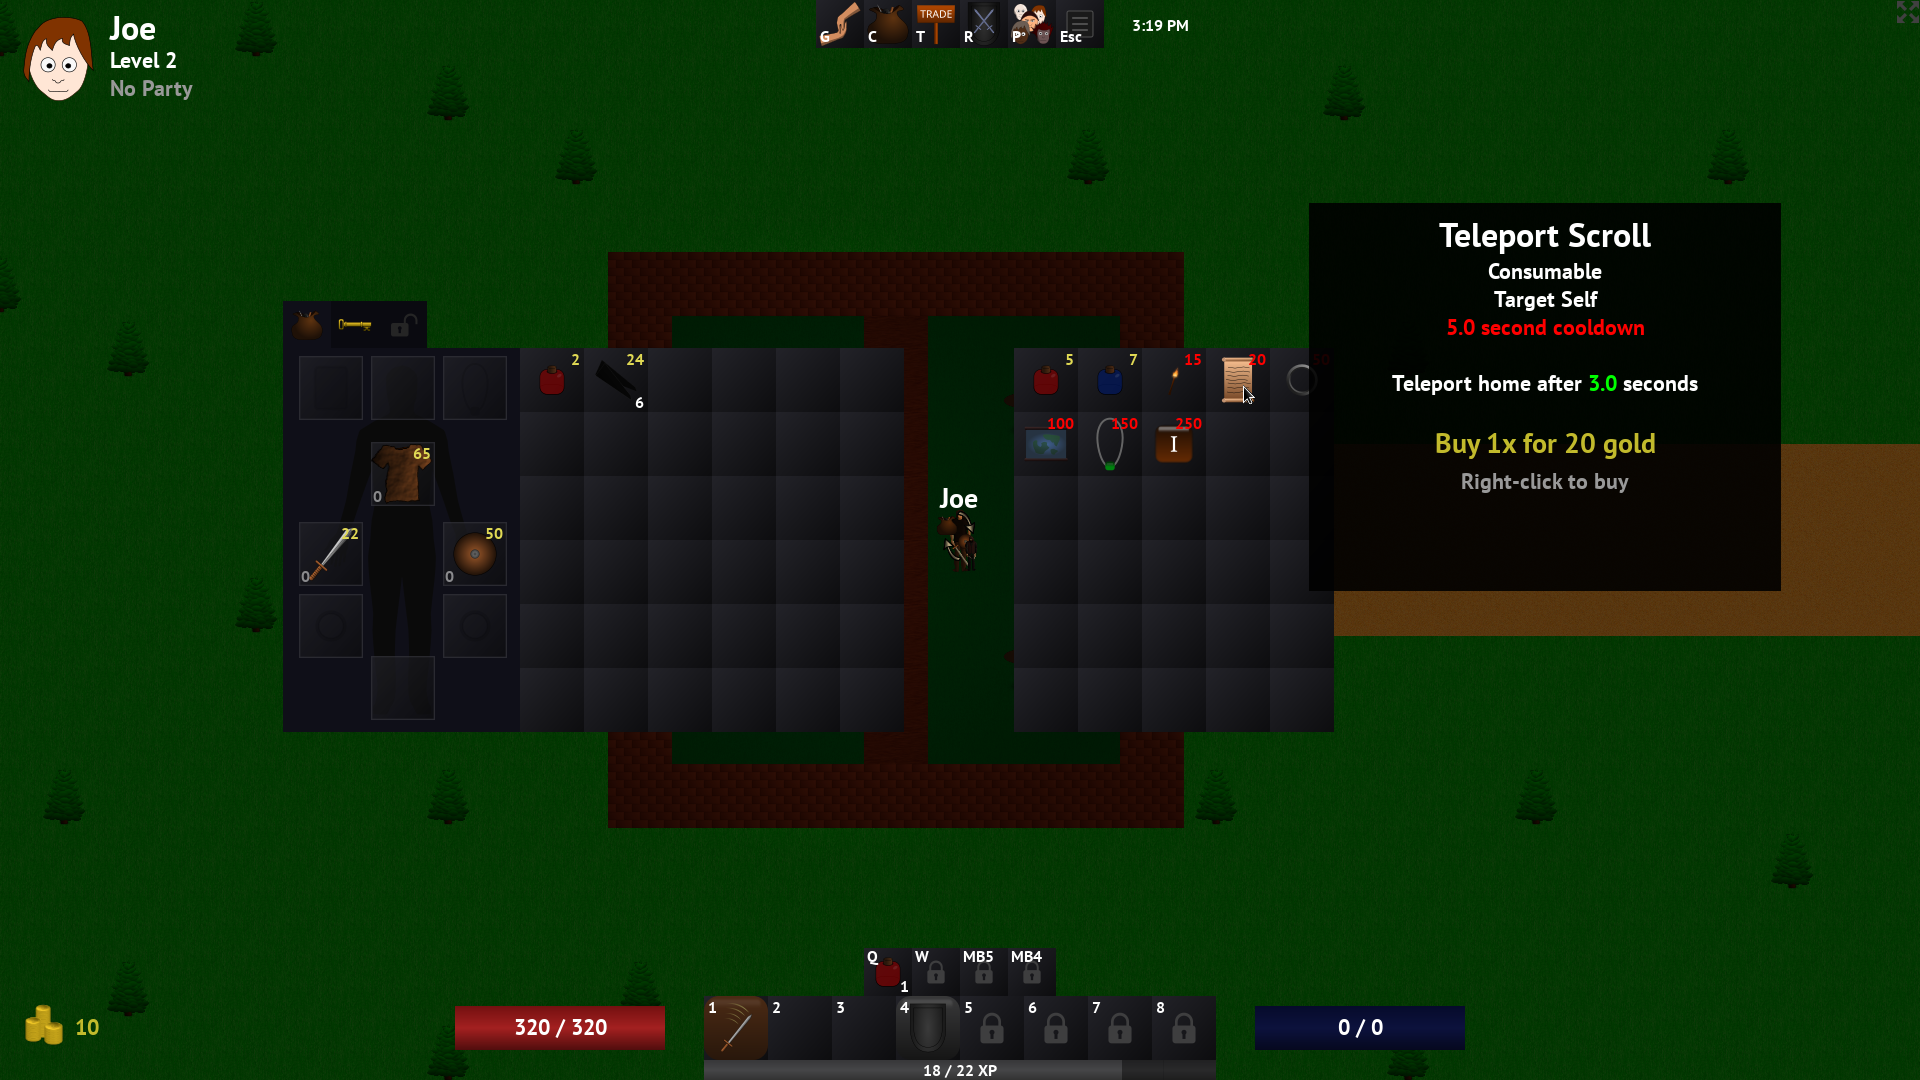
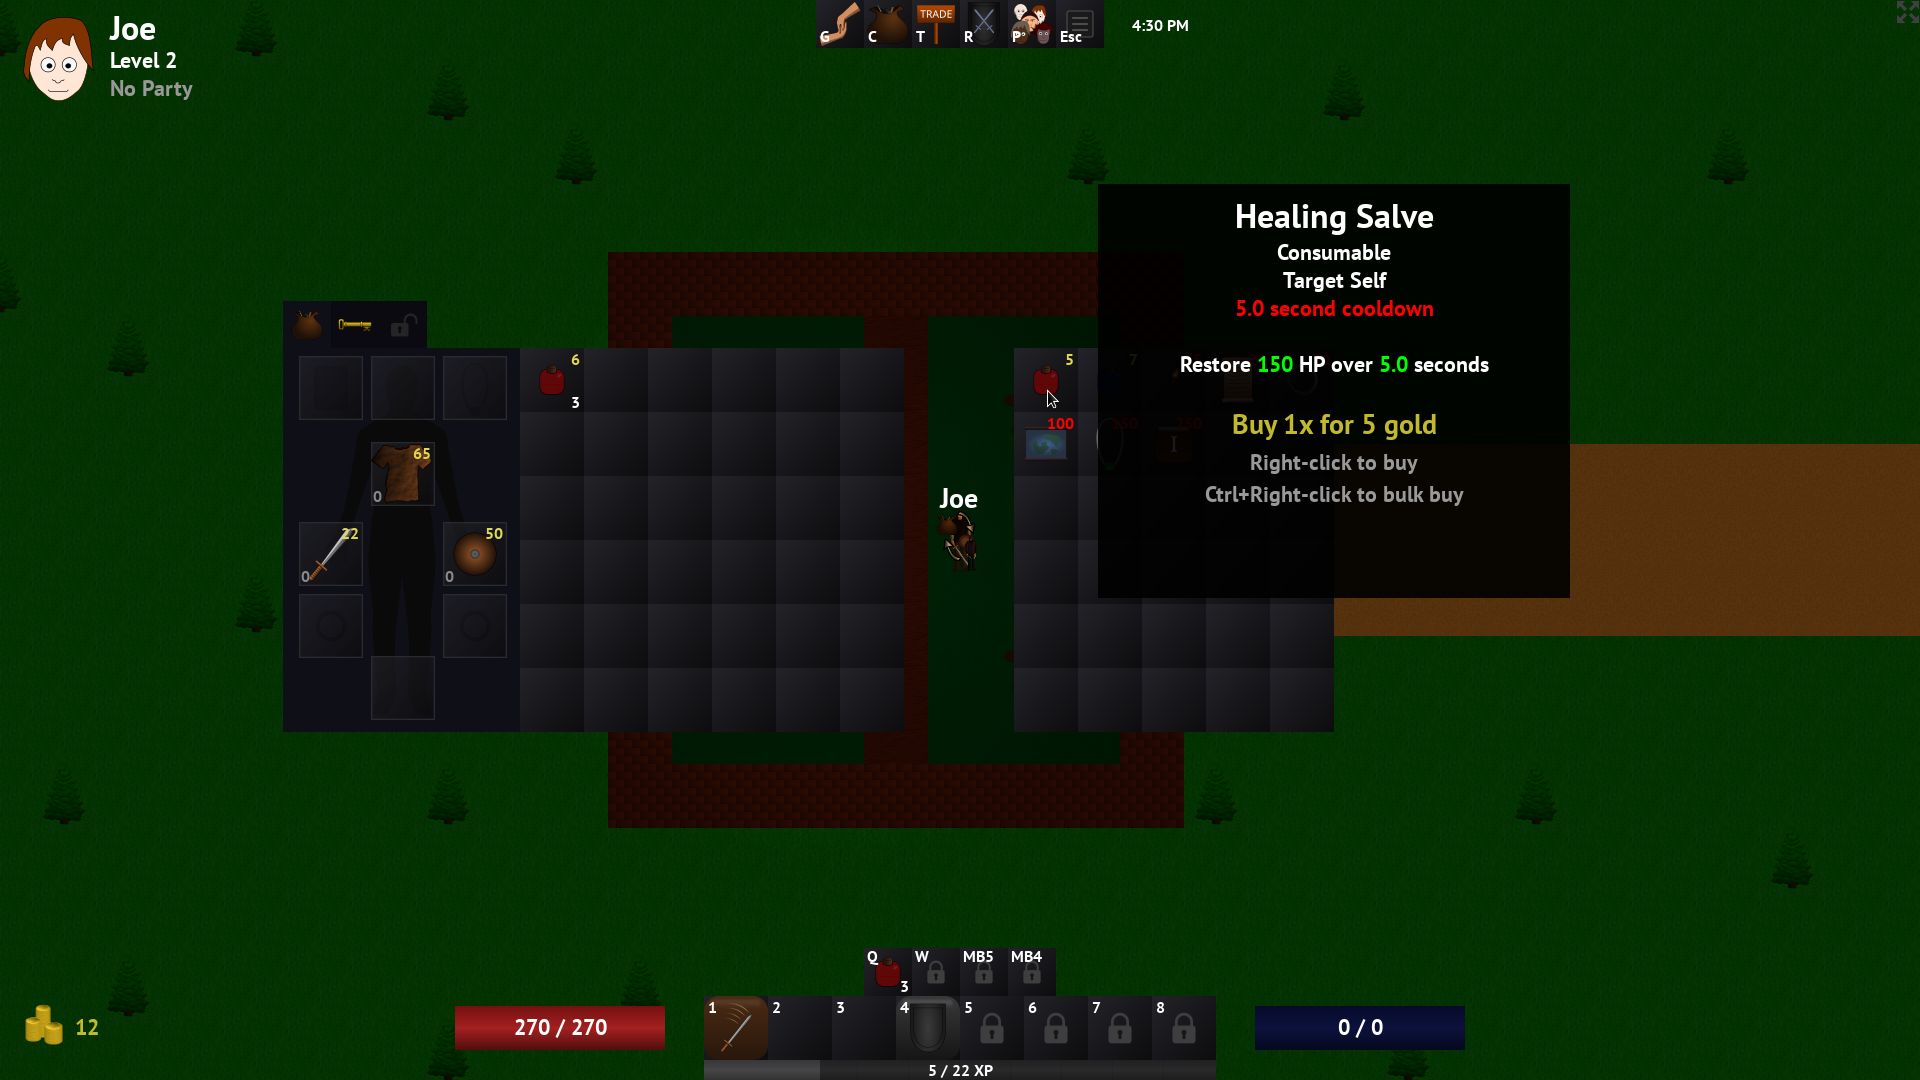
add bulk buy note

Changed region(s): [[0.5625, 0.1528, 0.9375, 0.55], [0.4062, 0.9778, 0.5938, 1.0], [0.7188, 0.55, 0.8125, 0.5806]]

diff --git a/choria_legacy/index.html b/choria_legacy/index.html
@@ -391,7 +391,7 @@
 			</section>
 			<section id="vendors">
 				<h3>Vendors</h3>
-				<p>When you've earned enough gold, you can return to a shop to purchase new items. <strong>Right-click</strong> to purchase an item, or drag it from the vendor to your inventory. Hold <strong>Shift</strong> to buy five at a time.</p>
+				<p>When you've earned enough gold, you can return to a shop to purchase new items. <strong>Right-click</strong> to purchase an item, or drag it from the vendor to your inventory. Hold <strong>Shift</strong> to buy five at a time. Hold <strong>Ctrl</strong> to bulk buy.</p>
 				<p>Items can be sold back for 50% of their value by <strong>Shift+Right-clicking</strong> or <strong>Shift+Ctrl+Right-clicking</strong> to sell five. Whole stacks of items can be dragged over to the vendor screen to sell.</p>
 				<figure>
 					<img src="img/thumb_2_vendor.png" class="enlarge thumb" alt="Vendor screen"/>
